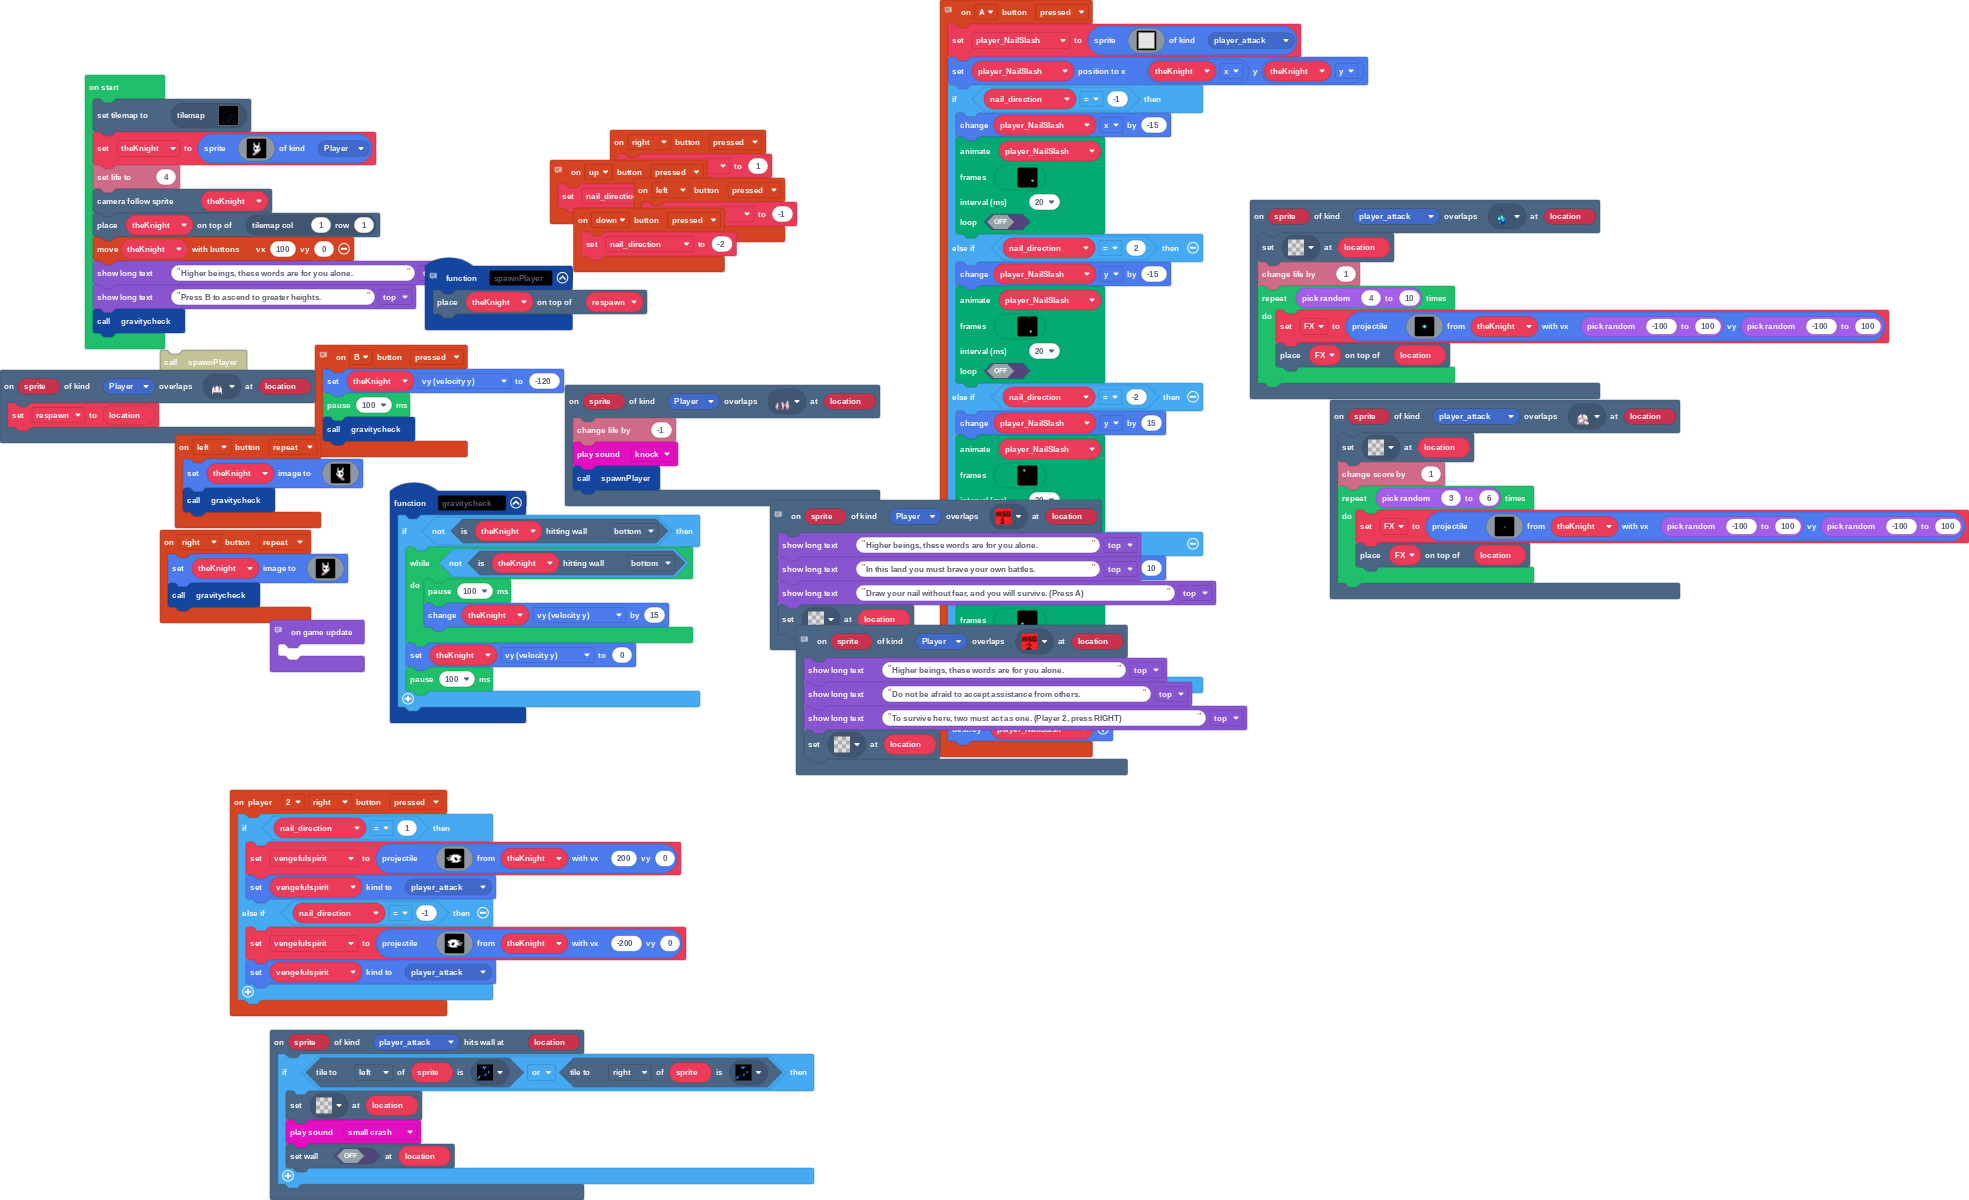
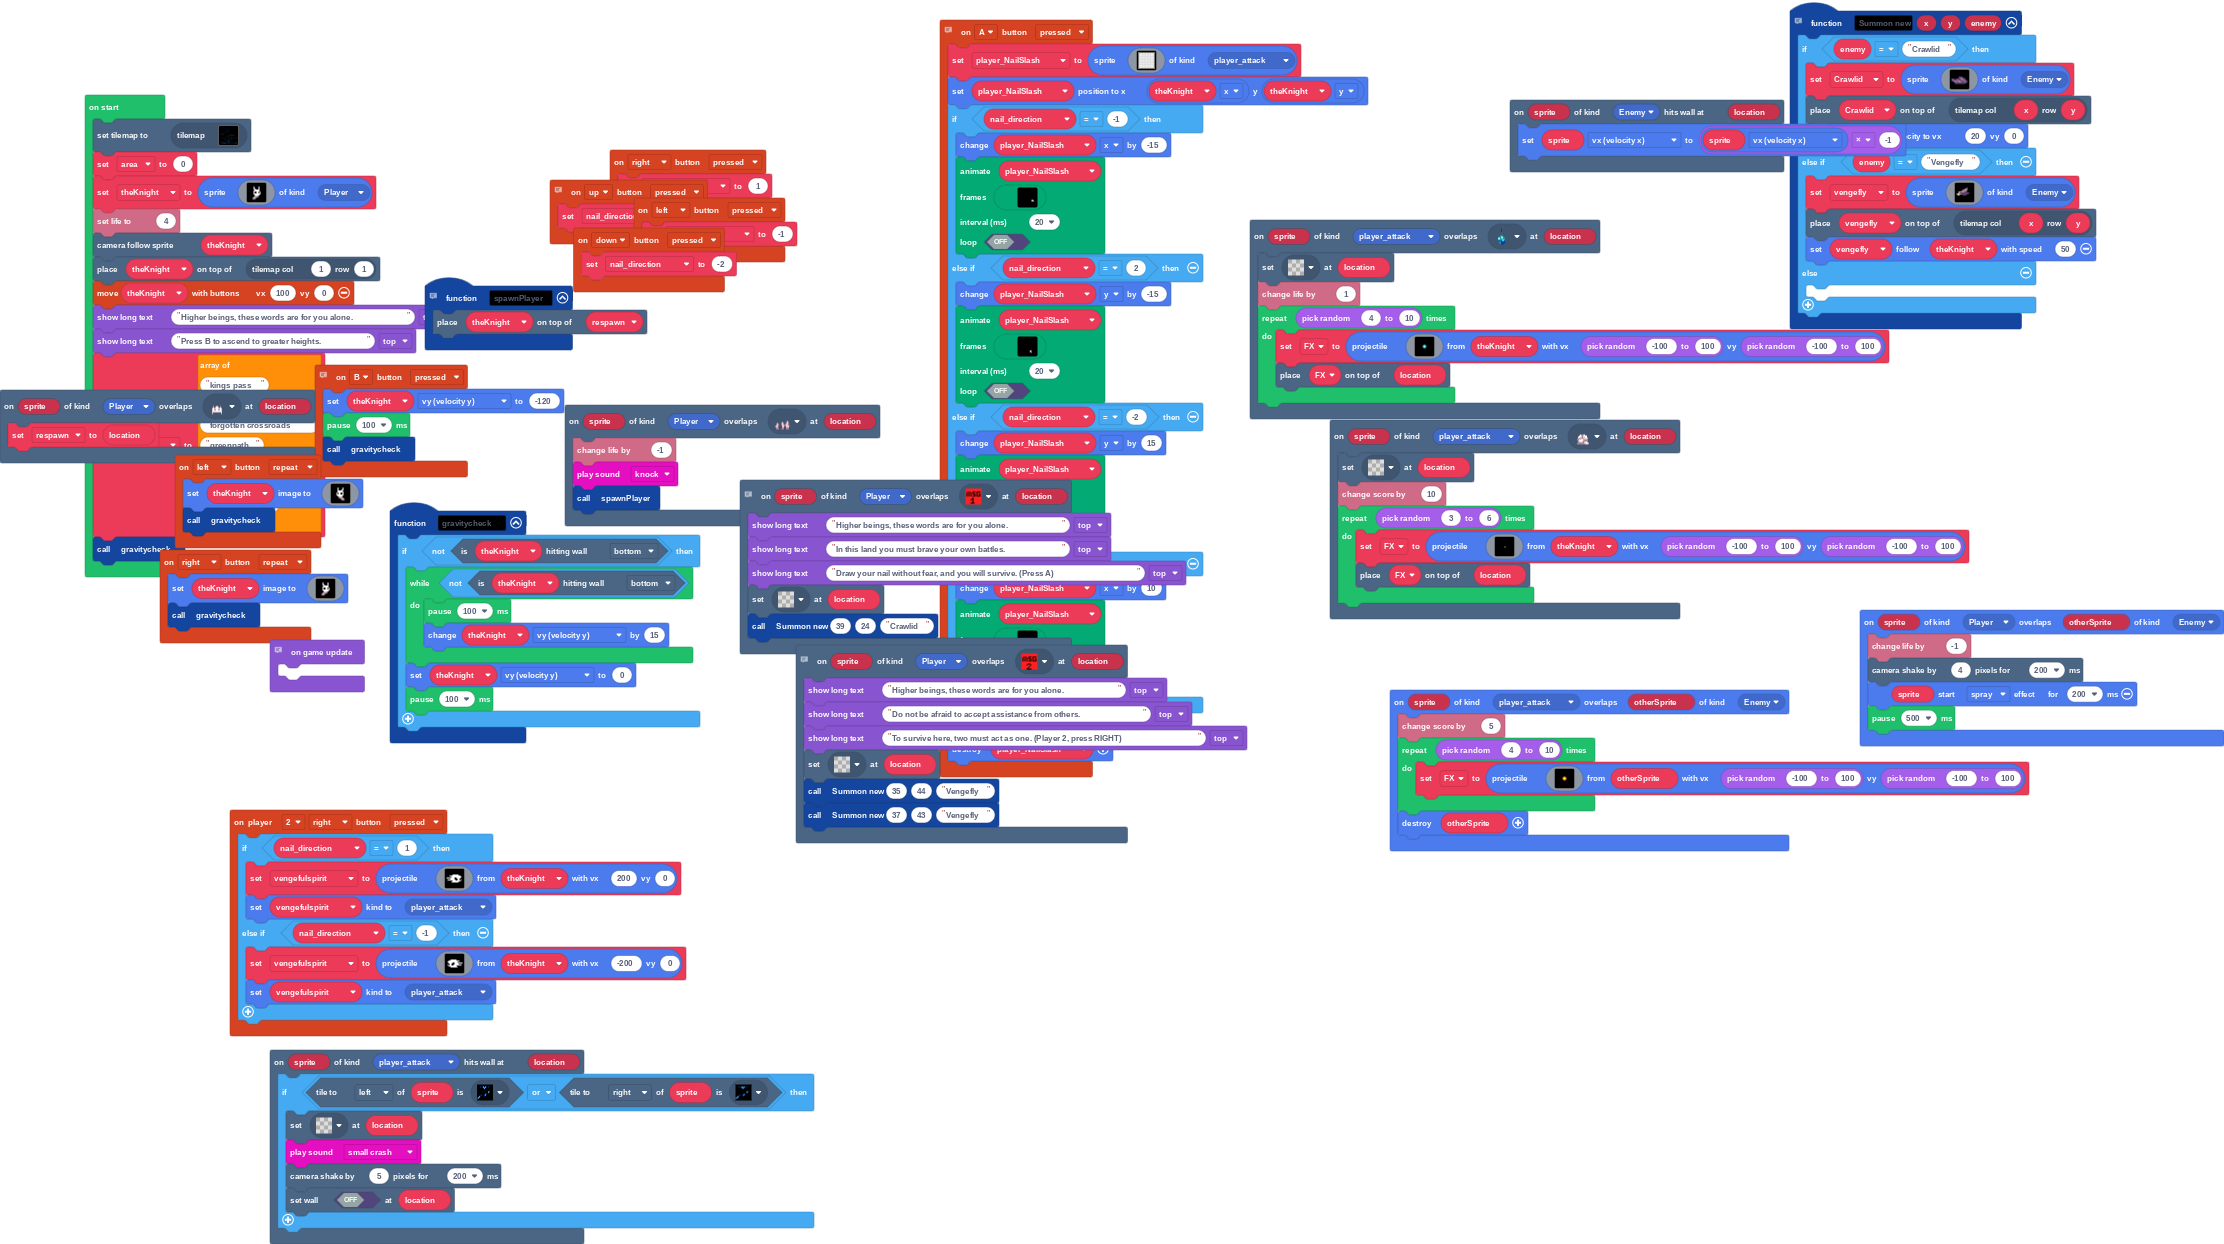
Enemies, more polish

diff --git a/tilemap.g.ts b/tilemap.g.ts
@@ -92,59 +92,6 @@ namespace myTiles {
 . . . . . . . . . . . . . . . . 
 . . . . . . . . . . . . . . . . 
 `, [myTiles.transparency16], TileScale.Sixteen);
-            case "kingspass":
[1 lines of base64/hex data omitted]
-..................................................
-..................................................
-..................................................
-..................................................
-..................................................
-..................................................
-..................................................
-..................................................
-..............................2222222222222222....
-..............................2222222222222222....
-..............................2222222222222222....
-..............................2222222222222222....
-..............................2222222222222222....
-.................22222222.....2222222222222222....
-.................22222222.....2222222222222222....
-.................22222222.....2222222222222222....
-..........222222.22222222.....2222222222222222....
-..........222222.22222222.....2222222222222222....
-..........222222.22222222.....2222222222222222....
-..........222222.22222222.....222222...222..22....
-2222222...222222.22222222.........................
-2222222...222222.22222222.........................
-2222222...222222.22222222.........................
-22222222222222222222....2.........................
-22222222222222222222....2.........................
-22222222222222222222..22222222222222...2222222....
-22222222222222222222....2222222222222222222222....
-22222222222222222222....2222222222222222222222....
-2222222222222222222222222222222222222222222222....
-2222222222222222222222222222222222222222222222....
-..................................................
-..................................................
-............22222.................................
-........222222222...2...................2222222222
-........2222222......................2222222222222
-........2222222......................2222222222222
-........2222222..2...................2222222222222
-........2222222................2222222222222222222
-........2222222.........22222222222222222222222222
-........2222222...2...2222222222222222222222222222
-........2222222.......2222222222222222222222222222
-........222222222222222222222222222222222222222222
-........2222222222222........................22222
-........2222222222222........................22222
-........2222222.....2........................22222
-....................2........................22222
-....................2........................22222
-............2.......2........................2222.
-....................2........................2222.
-222222222......22222222222222222222222222222222222
-`, [myTiles.transparency16,myTiles.tile4,myTiles.tile5,myTiles.tile6,myTiles.tile7,myTiles.tile8,myTiles.tile9,myTiles.tile10,myTiles.tile11,myTiles.tile12,myTiles.tile14,myTiles.tile18,myTiles.tile19,myTiles.tile20,myTiles.tile21,myTiles.tile22,myTiles.tile24,myTiles.tile23,myTiles.tile25,myTiles.tile26,myTiles.tile13,myTiles.tile27], TileScale.Sixteen);
             case "dirtmouth1":
[1 lines of base64/hex data omitted]
 ....................................................................................................
@@ -188,6 +135,59 @@ namespace myTiles {
 ....................................................................................................
 ....................................................................................................
 `, [myTiles.transparency16,myTiles.tile4,myTiles.tile5,myTiles.tile6,myTiles.tile9,myTiles.tile10,myTiles.tile11,myTiles.tile12,myTiles.tile15,myTiles.tile18,myTiles.tile22,myTiles.tile24,myTiles.tile28,myTiles.tile29,myTiles.tile30,myTiles.tile31,myTiles.tile32,myTiles.tile33,myTiles.tile34], TileScale.Sixteen);
+            case "kingspass":
[1 lines of base64/hex data omitted]
+..................................................
+..................................................
+..................................................
+..................................................
+..................................................
+..................................................
+..................................................
+..................................................
+..............................2222222222222222....
+..............................2222222222222222....
+..............................2222222222222222....
+..............................2222222222222222....
+..............................2222222222222222....
+.................22222222.....2222222222222222....
+.................22222222.....2222222222222222....
+.................22222222.....2222222222222222....
+..........222222.22222222.....2222222222222222....
+..........222222.22222222.....2222222222222222....
+..........222222.22222222.....2222222222222222....
+..........222222.22222222.....222222...222..22....
+2222222...222222.22222222.........................
+2222222...222222.22222222.........................
+2222222...222222.22222222.........................
+22222222222222222222....2.........................
+22222222222222222222....2....................2....
+22222222222222222222..22222222222222...2222222....
+22222222222222222222....2222222222222222222222....
+22222222222222222222....2222222222222222222222....
+2222222222222222222222222222222222222222222222....
+2222222222222222222222222222222222222222222222....
+..................................................
+..................................................
+............22222.................................
+........222222222...2...................2222222222
+........2222222......................2222222222222
+........2222222......................2222222222222
+........2222222..2...................2222222222222
+........2222222................2222222222222222222
+........2222222.........22222222222222222222222222
+........2222222...2...2222222222222222222222222222
+........2222222.......2222222222222222222222222222
+........222222222222222222222222222222222222222222
+........2222222222222........................22222
+........2222222222222........................22222
+........2222222.....2........................22222
+....................2........................22222
+....................2........................22222
+............2.......2........................2222.
+....................2........................2222.
+222222222......22222222222222222222222222222222222
+`, [myTiles.transparency16,myTiles.tile4,myTiles.tile5,myTiles.tile6,myTiles.tile7,myTiles.tile8,myTiles.tile9,myTiles.tile10,myTiles.tile11,myTiles.tile12,myTiles.tile14,myTiles.tile18,myTiles.tile19,myTiles.tile20,myTiles.tile21,myTiles.tile22,myTiles.tile24,myTiles.tile23,myTiles.tile25,myTiles.tile26,myTiles.tile13,myTiles.tile27], TileScale.Sixteen);
         }
         return null;
     })

diff --git a/main.ts b/main.ts
@@ -68,6 +68,9 @@ controller.right.onEvent(ControllerButtonEvent.Repeated, function () {
 controller.left.onEvent(ControllerButtonEvent.Pressed, function () {
     nail_direction = -1
 })
+scene.onHitWall(SpriteKind.Enemy, function (sprite, location) {
+    sprite.vx = sprite.vx * -1
+})
 controller.right.onEvent(ControllerButtonEvent.Pressed, function () {
     nail_direction = 1
 })
@@ -88,6 +91,13 @@ scene.onOverlapTile(SpriteKind.player_attack, assets.tile`lifeblood_cocoon`, fun
         tiles.placeOnTile(FX, location)
     }
 })
+sprites.onOverlap(SpriteKind.player_attack, SpriteKind.Enemy, function (sprite, otherSprite) {
+    info.changeScoreBy(5)
+    for (let index = 0; index < randint(4, 10); index++) {
+        FX = sprites.createProjectileFromSprite(assets.image`infection_particle`, otherSprite, randint(-100, 100), randint(-100, 100))
+    }
+    otherSprite.destroy()
+})
 controller.down.onEvent(ControllerButtonEvent.Pressed, function () {
     nail_direction = -2
 })
@@ -102,21 +112,38 @@ scene.onOverlapTile(SpriteKind.Player, assets.tile`msg_flag_1`, function (sprite
     game.showLongText("In this land you must brave your own battles.", DialogLayout.Top)
     game.showLongText("Draw your nail without fear, and you will survive. (Press A)", DialogLayout.Top)
     tiles.setTileAt(location, assets.tile`transparency16`)
+    Summon_new(39, 24, "Crawlid")
 })
 scene.onOverlapTile(SpriteKind.player_attack, assets.tile`geo_cluster`, function (sprite, location) {
     tiles.setTileAt(location, assets.tile`transparency16`)
-    info.changeScoreBy(1)
+    info.changeScoreBy(10)
     for (let index = 0; index < randint(3, 6); index++) {
         FX = sprites.createProjectileFromSprite(assets.image`geoparticle`, theKnight, randint(-100, 100), randint(-100, 100))
         tiles.placeOnTile(FX, location)
     }
 })
+// Enemy spawn and behavior scripts
+function Summon_new (x: number, y: number, enemy: string) {
+    if (enemy == "Crawlid") {
+        Crawlid = sprites.create(assets.image`crawlid_right`, SpriteKind.Enemy)
+        tiles.placeOnTile(Crawlid, tiles.getTileLocation(x, y))
+        Crawlid.setVelocity(20, 0)
+    } else if (enemy == "Vengefly") {
+        vengefly = sprites.create(assets.image`vengefly`, SpriteKind.Enemy)
+        tiles.placeOnTile(vengefly, tiles.getTileLocation(x, y))
+        vengefly.follow(theKnight, 50)
+    } else {
+    	
+    }
+}
 // I wish I knew an easier way to do this.
 scene.onOverlapTile(SpriteKind.Player, assets.tile`msg_flag_0`, function (sprite, location) {
     game.showLongText("Higher beings, these words are for you alone.", DialogLayout.Top)
     game.showLongText("Do not be afraid to accept assistance from others.", DialogLayout.Top)
     game.showLongText("To survive here, two must act as one. (Player 2, press RIGHT)", DialogLayout.Top)
     tiles.setTileAt(location, assets.tile`transparency16`)
+    Summon_new(35, 44, "Vengefly")
+    Summon_new(37, 43, "Vengefly")
 })
 // Benches are used as spawn points, but will not refill health unlike source material.
 function spawnPlayer () {
@@ -126,23 +153,33 @@ scene.onHitWall(SpriteKind.player_attack, function (sprite, location) {
     if (sprite.tileKindAt(TileDirection.Left, assets.tile`fragile_wall_bluecracks`) || sprite.tileKindAt(TileDirection.Right, assets.tile`fragile_wall_bluecracks`)) {
         tiles.setTileAt(location, assets.tile`transparency16`)
         music.smallCrash.play()
+        scene.cameraShake(5, 200)
         tiles.setWallAt(location, false)
     }
 })
 scene.onOverlapTile(SpriteKind.Player, assets.tile`bench`, function (sprite, location) {
     respawn = location
 })
+sprites.onOverlap(SpriteKind.Player, SpriteKind.Enemy, function (sprite, otherSprite) {
+    info.changeLifeBy(-1)
+    scene.cameraShake(4, 200)
+    sprite.startEffect(effects.spray, 200)
+    pause(500)
+})
 controller.left.onEvent(ControllerButtonEvent.Repeated, function () {
     theKnight.setImage(assets.image`the_knight0`)
     gravitycheck()
 })
 let respawn: tiles.Location = null
+let vengefly: Sprite = null
+let Crawlid: Sprite = null
 let FX: Sprite = null
 let vengefulspirit: Sprite = null
 let player_NailSlash: Sprite = null
 let nail_direction = 0
 let theKnight: Sprite = null
 tiles.setCurrentTilemap(tilemap`kingspass`)
+let area = 0
 theKnight = sprites.create(assets.image`the_knight`, SpriteKind.Player)
 info.setLife(4)
 scene.cameraFollowSprite(theKnight)
@@ -150,6 +187,15 @@ tiles.placeOnTile(theKnight, tiles.getTileLocation(1, 1))
 controller.moveSprite(theKnight, 100, 0)
 game.showLongText("Higher beings, these words are for you alone.", DialogLayout.Top)
 game.showLongText("Press B to ascend to greater heights.", DialogLayout.Top)
+let Area_list = [
+"kings pass",
+"dirtmouth",
+"forgotten crossroads",
+"greenpath",
+"crystal peak",
+"kingdom's edge",
+"white palace"
+]
 gravitycheck()
 // Blackout crash on any attempt to move "gravitycheck" function into here. No known workarounds. Unclear why this happens.
 game.onUpdate(function () {

diff --git a/images.g.ts b/images.g.ts
@@ -60,25 +60,6 @@ c c b c c c b b b c b b c c . .
 . . . . . . . . . . . . . . . . 
 . . . . . . . . . . . . . . . . 
 `;
-            case "image4":
-            case "crawlid_right":return img`
-. . . . . . . . . . . . . . . . 
-. . . . . . . . . . . . . . . . 
-. . . . . . . . . . . . . . . . 
-. . . . . . . . . . . . . . . . 
-. . . . . . . . . . . . . . . . 
-. . . . . . . c c c c . . . . . 
-. . . . . . . c c b c c c . . . 
-c c c . c c c c c b b b c c . . 
-c b c c c c b c c c b c b c c . 
-c c b b b c b b b c c b c b c c 
-. . c c b b c b b b c c c b c c 
-. . . c c c c c c c c c c c c . 
-. . . . c . c . c . c . c . . . 
-. . . . . . . . . . . . . . . . 
-. . . . . . . . . . . . . . . . 
-. . . . . . . . . . . . . . . . 
-`;
             case "image5":
             case "nail_hitbox":return img`
 1 1 1 1 1 1 1 1 1 1 1 1 1 
@@ -164,6 +145,63 @@ c c b b b c b b b c c b c b c c
 . . . . . . . . . . . . . . . . 
 . . . . . . . . d . . . . . . . 
 . . . . . . . . . . . . . . . . 
+. . . . . . . . . . . . . . . . 
+. . . . . . . . . . . . . . . . 
+. . . . . . . . . . . . . . . . 
+. . . . . . . . . . . . . . . . 
+. . . . . . . . . . . . . . . . 
+. . . . . . . . . . . . . . . . 
+`;
+            case "image4":
+            case "crawlid_right":return img`
+. . . . . . . . . . . . . . . . 
+. . . . . . . . . . . . . . . . 
+. . . . . . . . . . . . . . . . 
+. . . . . . . . . . . . . . . . 
+. . . . . . . . . . . . . . . . 
+. . . . . . . c c c c . . . . . 
+. . . . . . . c c b c c c . . . 
+c c c . c c c c c b b b c c . . 
+c b c c c c b c c c b c b c c . 
+c c b b b c b b b c c b c b c c 
+. . c c b b c b b b c c c b c c 
+. . . c c c c c c c c c c c c . 
+. . . . c . c . c . c . c . . . 
+. . . . . . . . . . . . . . . . 
+. . . . . . . . . . . . . . . . 
+. . . . . . . . . . . . . . . . 
+`;
+            case "image10":
+            case "vengefly":return img`
+. . . . . . . . . . . . . . . . 
+. . . . . . . . . . . . . . . . 
+. . . . . . . . . . . . . . . . 
+. . . . . . . . . . b . . . . . 
+. . . . . . . . b b b . . . . . 
+. . . . . . b b b b b . . . . . 
+. . . . . b b b b b . . . . . . 
+. . d d d b b b c c c . . . . . 
+. . d f f c c c c c c c c . . . 
+d d d d d c c c c c c c . . . . 
+. d d . . . c c c c . . . . . . 
+. . . . . . . . . . . . . . . . 
+. . . . . . . . . . . . . . . . 
+. . . . . . . . . . . . . . . . 
+. . . . . . . . . . . . . . . . 
+. . . . . . . . . . . . . . . . 
+`;
+            case "image11":
+            case "infection_particle":return img`
+. . . . . . . . . . . . . . . . 
+. . . . . . . . . . . . . . . . 
+. . . . . . . . . . . . . . . . 
+. . . . . . . . . . . . . . . . 
+. . . . . . . . . . . . . . . . 
+. . . . . . . . . . . . . . . . 
+. . . . . . . 4 4 . . . . . . . 
+. . . . . . 4 5 5 4 . . . . . . 
+. . . . . . 4 5 5 4 . . . . . . 
+. . . . . . . 4 4 . . . . . . . 
 . . . . . . . . . . . . . . . . 
 . . . . . . . . . . . . . . . . 
 . . . . . . . . . . . . . . . . 
